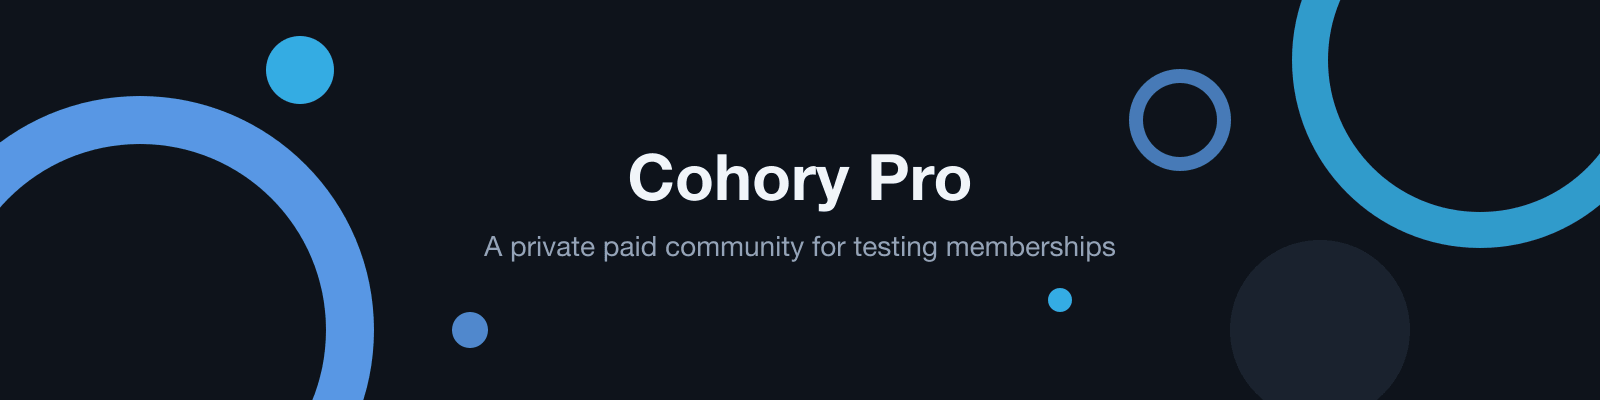
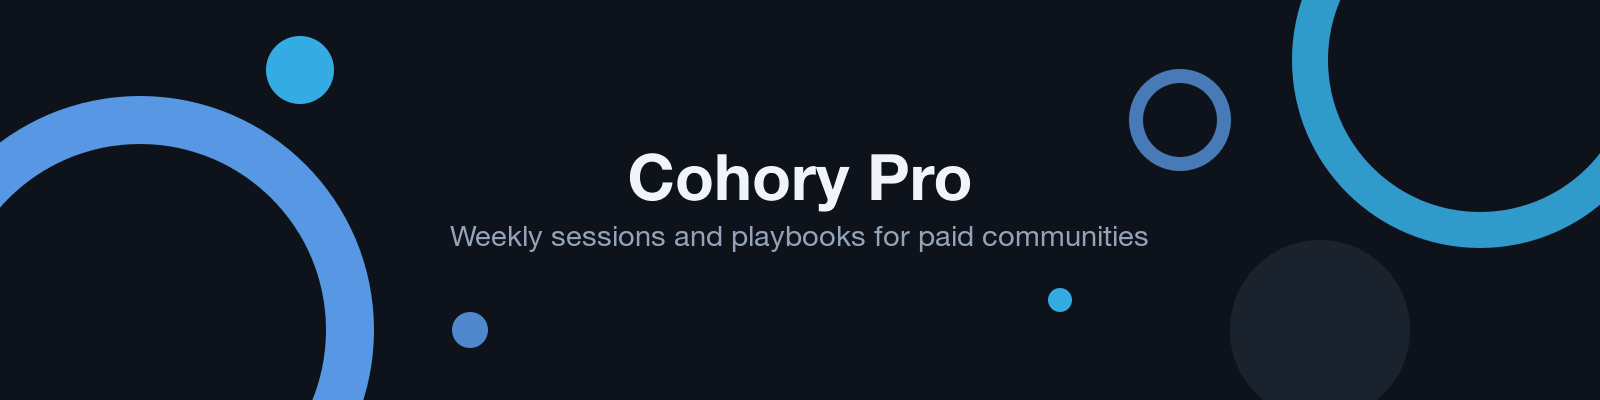
docs: add a product tour and screenshots to the README
The README opens with a one minute captioned tour (light and dark) and
shows six screenshots: the visitor About page of a paid community, the
feed, Classroom, Calendar, Members, and Manage. The Cohory Pro seed now
reads like a real paid community, CHANGELOG.md links each version, and
a stray blank line in the 0.12.0 notes is gone.

Changed region(s): [[0.2812, 0.57, 0.7188, 0.66]]

diff --git a/packages/communities/src/seed-content.ts b/packages/communities/src/seed-content.ts
@@ -66,26 +66,30 @@ export const creatorsAbout = {
 
 export const proAbout = {
   whatYouGet: [
-    "A private feed for paying members",
-    "Monthly and yearly plans, cancel anytime",
-    "Everything a paid community gets on Cohory",
+    "A live session every week on one part of running a paid community",
+    "Playbooks for pricing, launch posts, onboarding, and renewals",
+    "A review of your About page and pricing from the host",
   ],
   hostBio,
   hostCredential: "Founder of Cohory",
   faq: [
     {
-      q: "Is this a real paid community?",
-      a: "It is a test community. On a local stack, checkout runs in Stripe test mode, so use a test card such as 4242 4242 4242 4242.",
+      q: "Can I cancel anytime?",
+      a: "Yes. Cancel from the billing portal and you keep access until the end of the period you paid for.",
+    },
+    {
+      q: "Is it for me if I have no paying members yet?",
+      a: "Yes. Many members join while they plan their first paid launch.",
     },
   ],
   detailedDescription: {
     type: "doc",
     content: [
       paragraph(
-        "Cohory Pro is a private paid community for trying memberships end to end: the price on the About page, checkout, the Membership page, and the billing portal.",
+        "Cohory Pro is for creators who charge for their community, or plan to. Each week there is a live session on one topic: setting a price, writing the launch post, welcoming new members, or keeping them past the first month.",
       ),
       paragraph(
-        "Join with a Stripe test card. Nothing here is charged for real, and the content is for testing only.",
+        "Members get the playbook from every session and can ask for a review of their About page and pricing.",
       ),
     ],
   },

diff --git a/packages/posts/src/seed-content.ts b/packages/posts/src/seed-content.ts
@@ -236,8 +236,8 @@ export const proPosts: readonly SeedPost[] = [
     title: "Welcome to Cohory Pro",
     pinned: true,
     body: doc(
-      "This private paid community is for trying memberships on a local stack.",
-      "Join from the About page or with the invite link, then pay with a Stripe test card such as 4242 4242 4242 4242. Nothing is charged for real.",
+      "Welcome to Cohory Pro. Introduce yourself in General and tell us what you charge today, or what you plan to charge.",
+      "On a local stack, checkout runs in Stripe test mode: join from the About page or the invite link and pay with a test card such as 4242 4242 4242 4242.",
     ),
   },
 ];

diff --git a/packages/db/src/seed/dev-data.ts b/packages/db/src/seed/dev-data.ts
@@ -151,7 +151,7 @@ export const devPaidSeed = {
   communitySlug: communitySlugSchema.parse("cohory-pro"),
   communityName: "Cohory Pro",
   communityDescription:
-    "A private paid community for trying memberships, checkout, and the billing portal on a local stack.",
+    "Weekly live sessions and playbooks for creators who run a paid community: pricing, launches, and keeping members.",
   inviteToken: "cohory-pro-invite-link-for-local-paid-tests",
   planName: "Cohory Pro membership",
   currency: "usd",

diff --git a/README.md b/README.md
@@ -2,6 +2,11 @@
 
 The open source alternative to Skool. Run your community, courses, events, and paid memberships on software you own.
 
+<picture>
+  <source media="(prefers-color-scheme: dark)" srcset="assets/screenshots/tour-dark.webp">
+  <img src="assets/screenshots/tour-light.webp" alt="A one minute tour of Cohory with captions: the About page of a private paid community as a visitor sees it, the Community feed and a post with its comments, a course in Classroom, the Calendar and an event, Members and the leaderboard, then every Manage page in sidebar order: Overview, Inbox, People, Payments, Appearance, Settings, and Migration." width="100%">
+</picture>
+
 Cohory gives a creator one calm place for a community, courses, events, and paid memberships. Members see four tabs (Community, Classroom, Calendar, Members), and the creator runs everything from Manage. Members pay through the creator's own Stripe account, so the subscriptions stay with the creator, and the whole community exports as an archive that another Cohory server imports. You can run it yourself for free, or use the hosted Cloud Edition, which takes 2% of each successful payment and no monthly fee.
 
 > **Version 0.12.0.** [CHANGELOG.md](CHANGELOG.md) lists what each release contains, and the [feature inventory](docs/product/feature-inventory.md) marks every feature as Built, Partly built, or planned. No image has been published yet, so the quickstart builds the image from source.
@@ -57,6 +62,57 @@ Self-hosted creators connect their own Stripe keys. The Cloud Edition uses Strip
 | Portability | Member CSV export and import, a versioned community archive, Skool and Circle importers, and moving existing Stripe subscribers |
 | Agents and API | A REST API under `/api/v1` with an OpenAPI document, scoped API tokens, agent identities with an approval queue, outgoing webhooks, an MCP server at `/mcp`, and agent ready courses |
 | Operations | Docker Compose with a production overlay, backups and restores, fair use limits, rate limits, legal page settings, and a worker healthcheck |
+
+<table>
+  <tr>
+    <td width="50%">
+      <picture>
+        <source media="(prefers-color-scheme: dark)" srcset="assets/screenshots/about-dark.webp">
+        <img src="assets/screenshots/about-light.webp" alt="About, as a signed out visitor sees a private paid community: cover image, Join for $19.00/month, the yearly price, and what members get.">
+      </picture>
+      <p align="center"><b>About.</b> What visitors see before they join a private, paid community.</p>
+    </td>
+    <td width="50%">
+      <picture>
+        <source media="(prefers-color-scheme: dark)" srcset="assets/screenshots/feed-dark.webp">
+        <img src="assets/screenshots/feed-light.webp" alt="Community feed: sort tabs, category filters, a post composer, a pinned post, and side cards for the next event, top members this week, and new members.">
+      </picture>
+      <p align="center"><b>Community.</b> Posts, categories, likes, and comments, with the next event and the week's top members.</p>
+    </td>
+  </tr>
+  <tr>
+    <td width="50%">
+      <picture>
+        <source media="(prefers-color-scheme: dark)" srcset="assets/screenshots/classroom-dark.webp">
+        <img src="assets/screenshots/classroom-light.webp" alt="Classroom: a course page with its description, progress bar, publish status, and lesson outline.">
+      </picture>
+      <p align="center"><b>Classroom.</b> Courses with modules, lessons, and progress.</p>
+    </td>
+    <td width="50%">
+      <picture>
+        <source media="(prefers-color-scheme: dark)" srcset="assets/screenshots/calendar-dark.webp">
+        <img src="assets/screenshots/calendar-light.webp" alt="Calendar: the next event with Going and Not going buttons above a month view.">
+      </picture>
+      <p align="center"><b>Calendar.</b> Weekly events with RSVP and reminders.</p>
+    </td>
+  </tr>
+  <tr>
+    <td width="50%">
+      <picture>
+        <source media="(prefers-color-scheme: dark)" srcset="assets/screenshots/members-dark.webp">
+        <img src="assets/screenshots/members-light.webp" alt="Members: a searchable directory of member cards with levels, points, and join dates.">
+      </picture>
+      <p align="center"><b>Members.</b> Directory, levels, and points.</p>
+    </td>
+    <td width="50%">
+      <picture>
+        <source media="(prefers-color-scheme: dark)" srcset="assets/screenshots/manage-dark.webp">
+        <img src="assets/screenshots/manage-light.webp" alt="Manage: the overview with a setup checklist and links to Inbox, People, Payments, Appearance, Settings, and Migration.">
+      </picture>
+      <p align="center"><b>Manage.</b> A setup checklist and every creator setting in one place.</p>
+    </td>
+  </tr>
+</table>
 
 ## Documentation
 

diff --git a/docs/open-source/release-strategy.md b/docs/open-source/release-strategy.md
@@ -50,7 +50,7 @@ Internal package APIs inside the monorepo are not part of the contract.
 - Today each PR that changes behavior adds one line to `CHANGELOG.md` under `## [Unreleased]` by hand. **Recommendation:** move to [Changesets](https://github.com/changesets/changesets) once releases are tagged, so the release PR merges per PR entries into `CHANGELOG.md`. Changesets is not set up yet; it works with pnpm workspaces and lets the SDK version independently later.
 - Release notes group entries as Breaking changes, Features, Fixes, Security, and Upgrade notes. Upgrade notes include migration steps and any change to environment variables.
 - Entries are written for creators and self-hosters, following [voice-and-tone](../brand/voice-and-tone.md).
-- `CHANGELOG.md` follows [Keep a Changelog](https://keepachangelog.com/en/1.1.0/): an `## [Unreleased]` section at the top, then one `## [x.y.z] - YYYY-MM-DD` heading per release (that heading format is the only place a spaced hyphen is allowed in the docs). The history before 0.11.0 was folded into one 0.11.0 entry; the detail is in git. **Recommendation:** once the repository has a public home, add link references at the end of the file: the first tagged release points at its tag, every later release at the compare view from the previous tag.
+- `CHANGELOG.md` follows [Keep a Changelog](https://keepachangelog.com/en/1.1.0/): an `## [Unreleased]` section at the top, then one `## [x.y.z] - YYYY-MM-DD` heading per release (that heading format is the only place a spaced hyphen is allowed in the docs). The history before 0.11.0 was folded into one 0.11.0 entry; the detail is in git. Link references at the end of the file point `[Unreleased]` at the compare view from the latest tag, the first tagged release (0.12.0) at its tag, and every later release at the compare view from the previous tag.
 
 ## Docker image tagging
 

diff --git a/CHANGELOG.md b/CHANGELOG.md
@@ -9,7 +9,6 @@ All notable changes to Cohory are recorded here. The format follows [Keep a Chan
 ### Added
 
 - The third party agent skills in `.claude/skills`, with their sources and terms in `THIRD_PARTY_NOTICES.md`.
-
 - On Cloud with `COMMUNITY_CREATION=operators`, the landing and pricing pages offer Request early access and Self-host now instead of Create your community, and a short form at `/early-access` emails the request to `CONTACT_EMAIL`.
 - A Contact page at `/contact`, linked from the footer, emails the operator with your account details when signed in, and is spam protected and rate limited.
 - On Cloud, creators get one optional question after their first post, first paid member, and first course, and an optional reason when they archive, delete, disconnect Stripe, or delete their account; answers go to the operator and can be turned off.
@@ -91,3 +90,6 @@ The first summarized release. Cohory 0.11.0 is an open source community platform
 - One authorization module for people, API tokens, and agents.
 - Rate limits on sign in, invitations, and public writes, and a structured logger that redacts secrets.
 - Account deletion, data download, legal pages, and consent at sign up.
+
+[Unreleased]: https://github.com/cohory/cohory/compare/v0.12.0...HEAD
+[0.12.0]: https://github.com/cohory/cohory/releases/tag/v0.12.0
